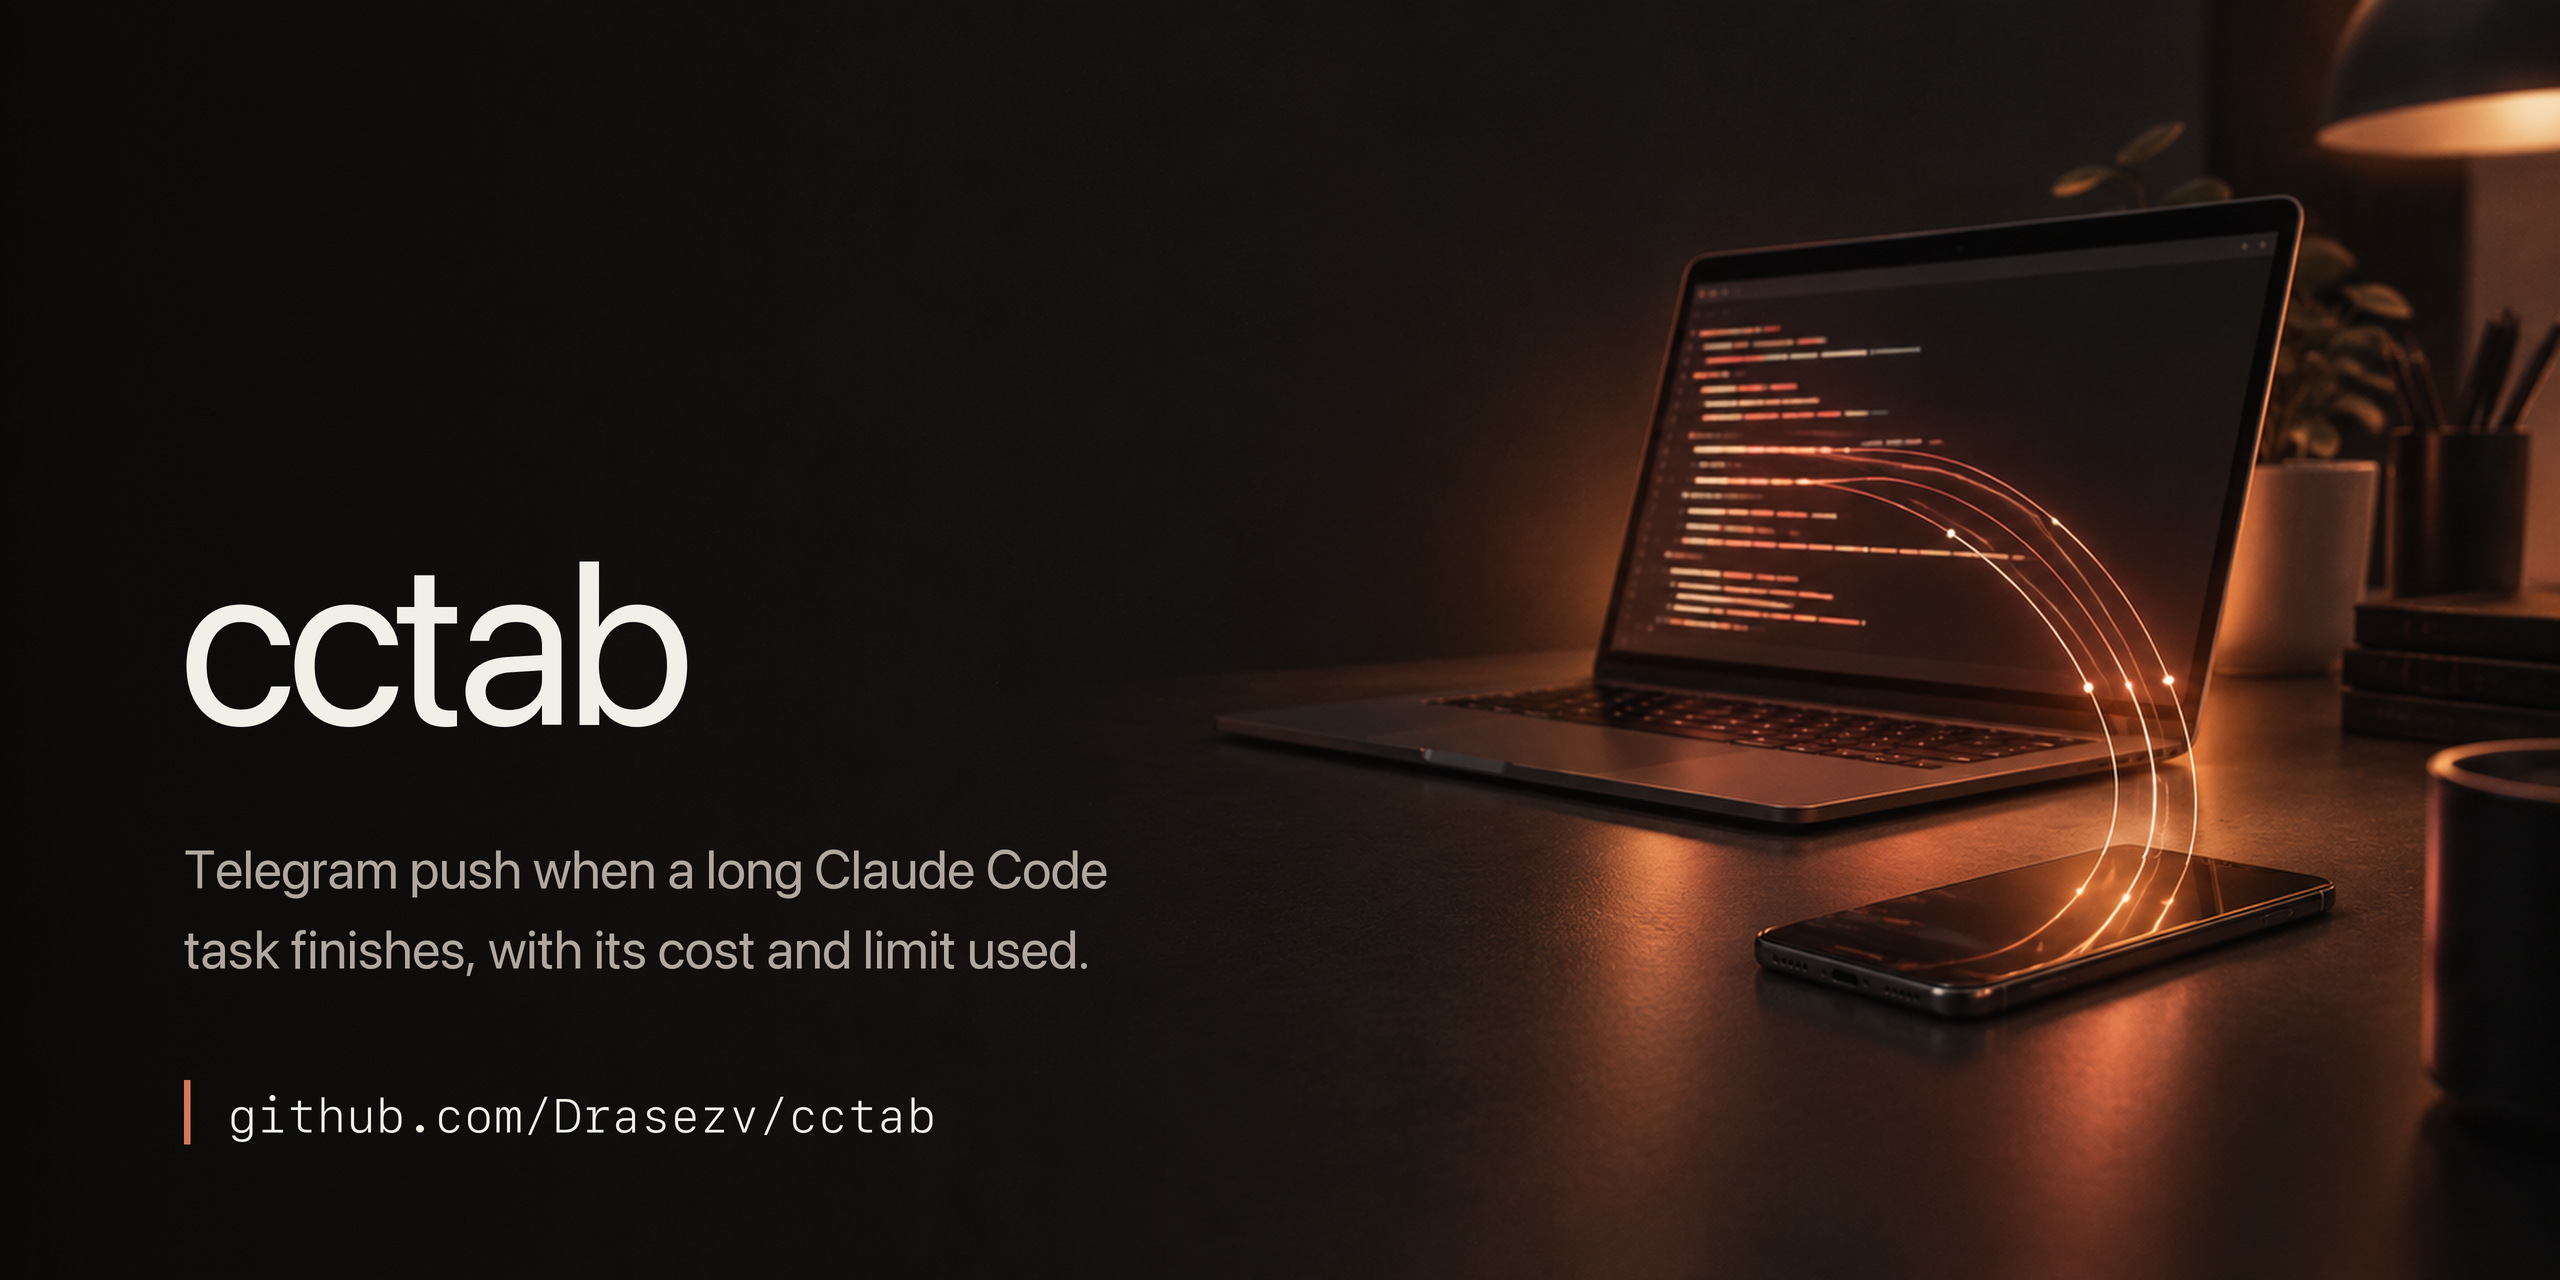
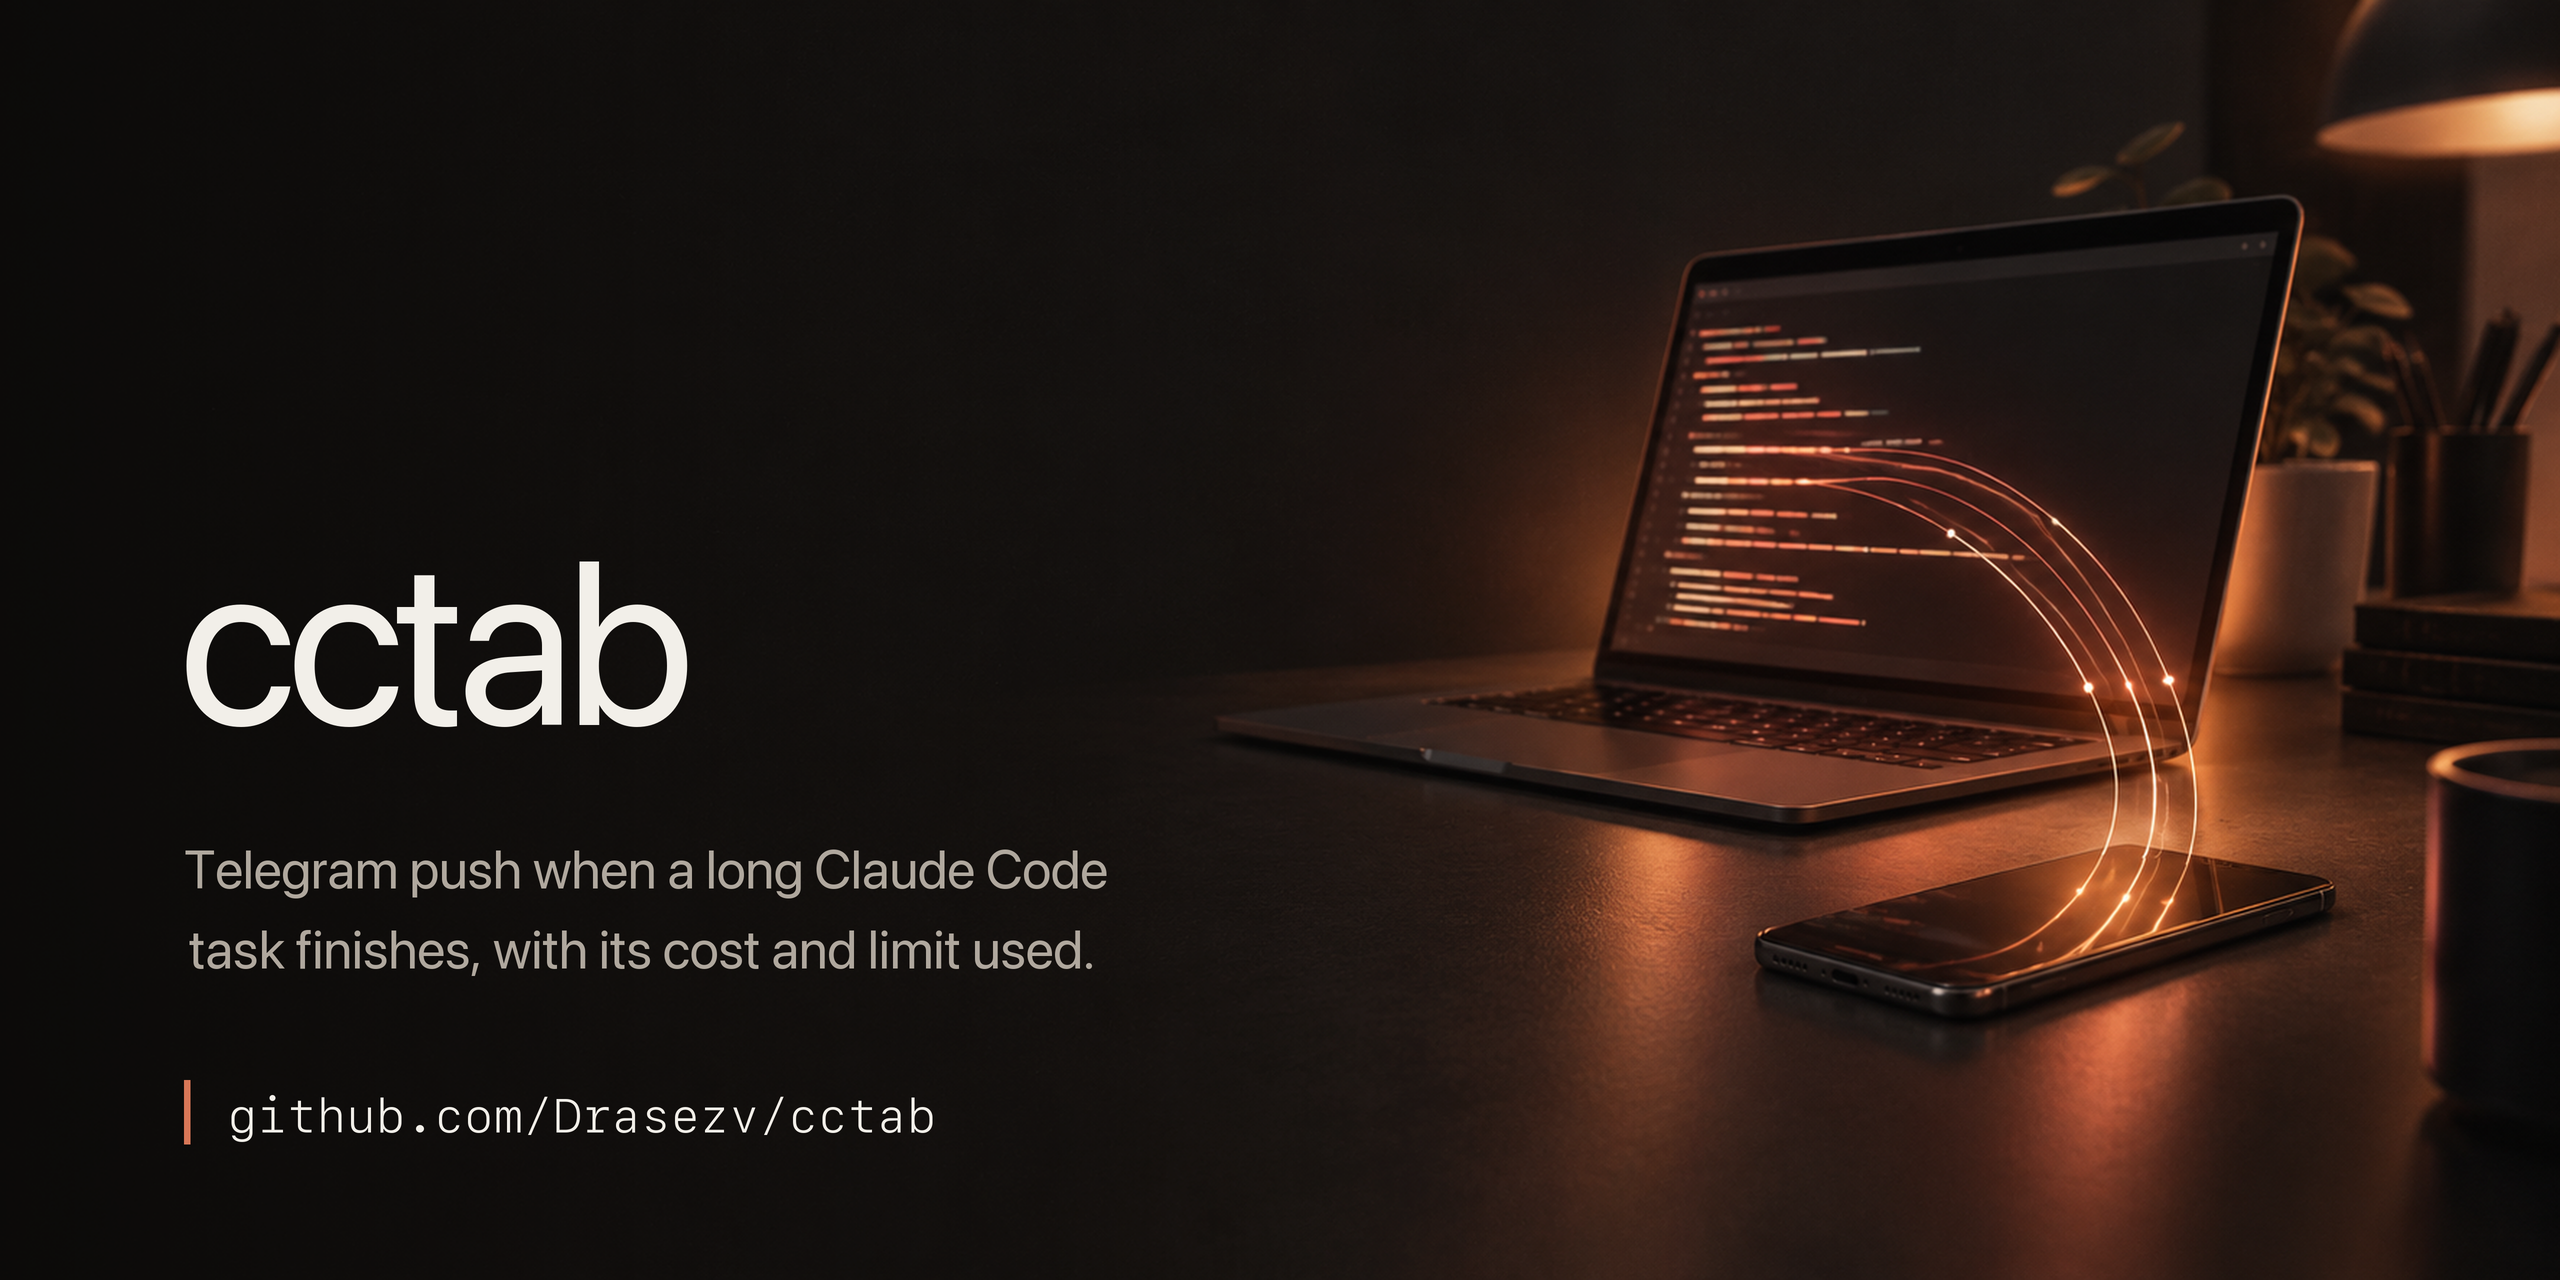
artwork: heavier wordmark at the window edge, deeper bubble, matching footer

Changed region(s): [[0.0625, 0.7188, 0.4375, 0.7812]]

diff --git a/assets/make_art.py b/assets/make_art.py
@@ -13,8 +13,11 @@ MUTED = (176, 168, 158)
 CORAL = (217, 119, 87)
 
 
-def font(name, size, ss=None):
-    return ImageFont.truetype(f"/System/Library/Fonts/{name}", size * (ss or SS))
+def font(name, size, ss=None, weight=None):
+    f = ImageFont.truetype(f"/System/Library/Fonts/{name}", size * (ss or SS))
+    if weight:
+        f.set_variation_by_name(weight)
+    return f
 
 
 def tracked(draw, xy, text, fnt, fill, tracking=0, ss=None):
@@ -57,7 +60,8 @@ def banner(scale=2):
     body = font("SFNS.ttf", 27, SS)
     for i, line in enumerate(("Telegram push when a long Claude Code",
                               "task finishes, with its cost and limit used.")):
-        d.text((edge - body.getbbox(line)[0], (418 + i * 40) * SS), line, font=body, fill=MUTED)
+        lean = round(2.5 * SS) if line[0].islower() else 0
+        d.text((edge - body.getbbox(line)[0] + lean, (418 + i * 40) * SS), line, font=body, fill=MUTED)
     mono = font("SFNSMono.ttf", 24, SS)
     d.rectangle([edge, 540 * SS, edge + 3 * SS, 572 * SS], fill=CORAL)
     d.text((edge + 22 * SS - mono.getbbox("g")[0], 543 * SS),
@@ -102,7 +106,11 @@ def social():
     card = Image.blend(card, Image.new("RGB", big, (13, 12, 12)), 0.45)
 
     # the bubble only: no chat background, no timestamp, a breath under the quote
-    shot = Image.open(f"{DOCS}/task-done.png").convert("RGB").crop((6, 4, 832, 535))
+    shot = Image.open(f"{DOCS}/task-done.png").convert("RGB").crop((6, 4, 832, 543))
+    pad = Image.new("RGB", (shot.width, 22), shot.getpixel((shot.width - 6, shot.height - 4)))
+    grown = Image.new("RGB", (shot.width, shot.height + pad.height))
+    grown.paste(shot, (0, 0)); grown.paste(pad, (0, shot.height))
+    shot = grown
     circle = shot.crop(DOT)
     shot = duotone(shot)
     ring = Image.new("L", (DOT[2] - DOT[0], DOT[3] - DOT[1]), 0)
@@ -133,19 +141,19 @@ def social():
     # all type on one oversampled layer, so nothing is drawn at final size
     layer = Image.new("RGBA", big, (0, 0, 0, 0))
     t = ImageDraw.Draw(layer)
-    wm = font("SFNS.ttf", 46)
-    sub = font("SFNS.ttf", 23)
-    base = (y - 34) * SS                              # shared baseline
-    wm_top = base - wm.getbbox("cctab")[3]
-    end_x = tracked(t, (text_x * SS, wm_top), "cctab", wm, BONE, tracking=-2)
-    t.text((end_x + 18 * SS, base - sub.getbbox("one")[3]),
+    wm = font("SFNS.ttf", 62, weight="Semibold")
+    sub = font("SFNS.ttf", 24)
+    base = (y - 30) * SS                              # shared baseline
+    end_x = tracked(t, (x * SS - wm.getbbox("c")[0], base - wm.getbbox("cctab")[3]),
+                    "cctab", wm, BONE, tracking=-3)
+    t.text((end_x + 20 * SS, base - sub.getbbox("one")[3]),
            "one message per finished task", font=sub, fill=MUTED)
 
-    foot = font("SFNSMono.ttf", 20)
-    fy = (y + shot.height + 44) * SS
-    t.rectangle([text_x * SS, fy, (text_x + 3) * SS, fy + 25 * SS], fill=CORAL)
-    t.text(((text_x + 20) * SS, fy + 1 * SS), "github.com/Drasezv/cctab",
-           font=foot, fill=(150, 142, 133))
+    foot = font("SFNSMono.ttf", 24)
+    fy = (y + shot.height + 46) * SS
+    t.rectangle([x * SS, fy, (x + 3) * SS, fy + 32 * SS], fill=CORAL)
+    t.text(((x + 22) * SS - foot.getbbox("g")[0], fy + 3 * SS), "github.com/Drasezv/cctab",
+           font=foot, fill=BONE)
 
     card = Image.alpha_composite(card.convert("RGBA"),
                                  layer.resize((W, H), Image.LANCZOS)).convert("RGB")
